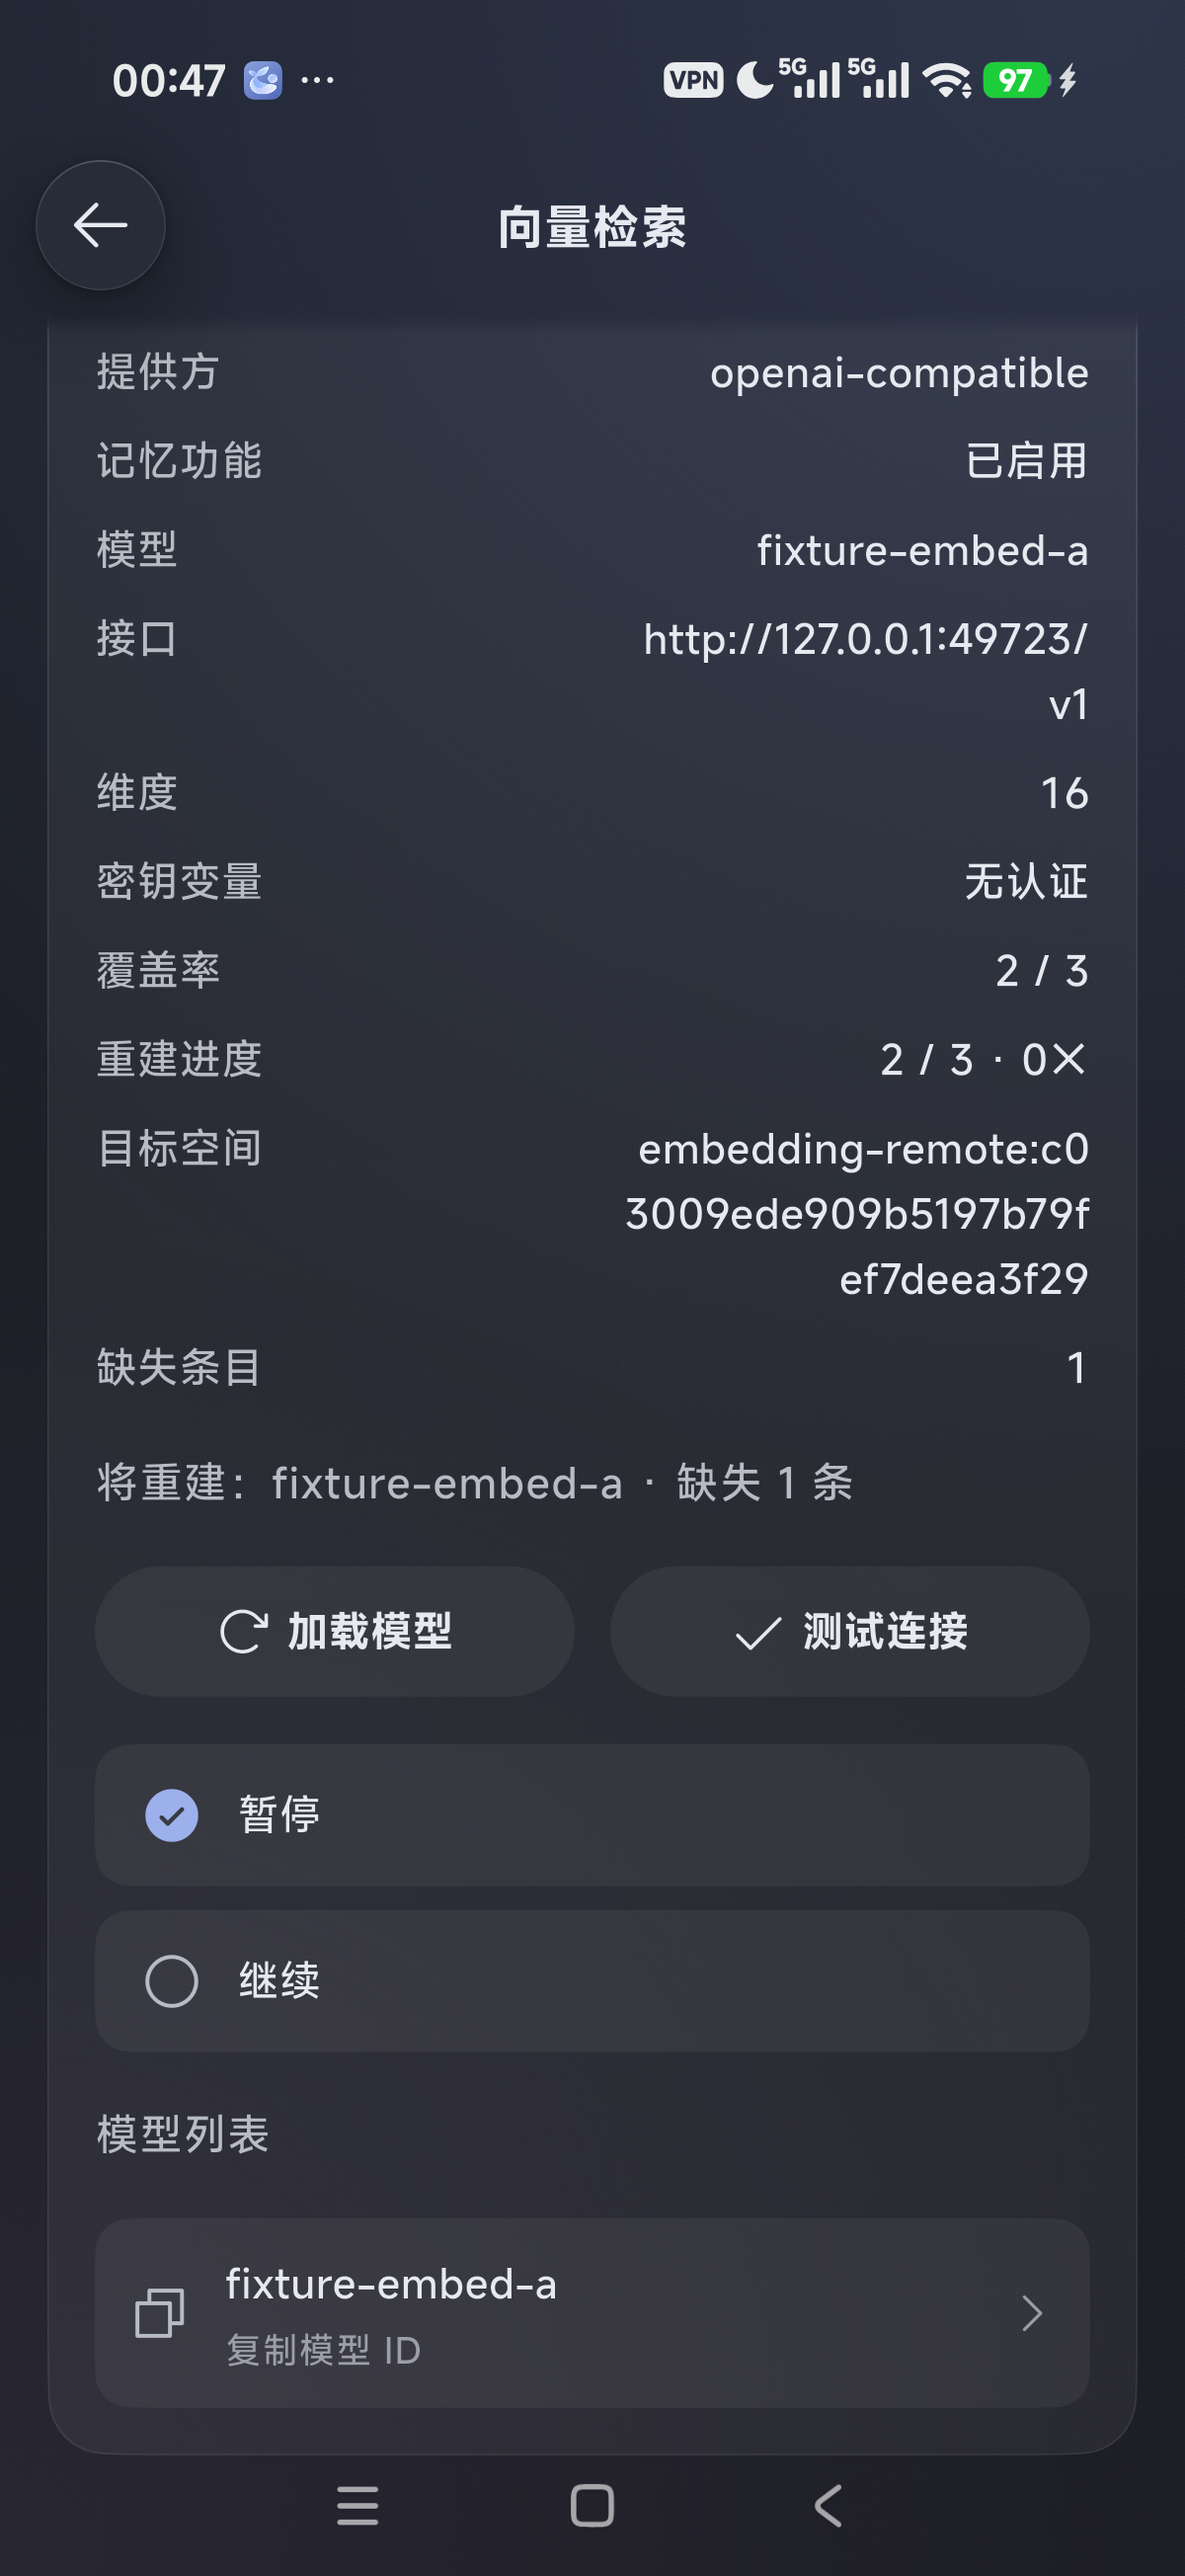
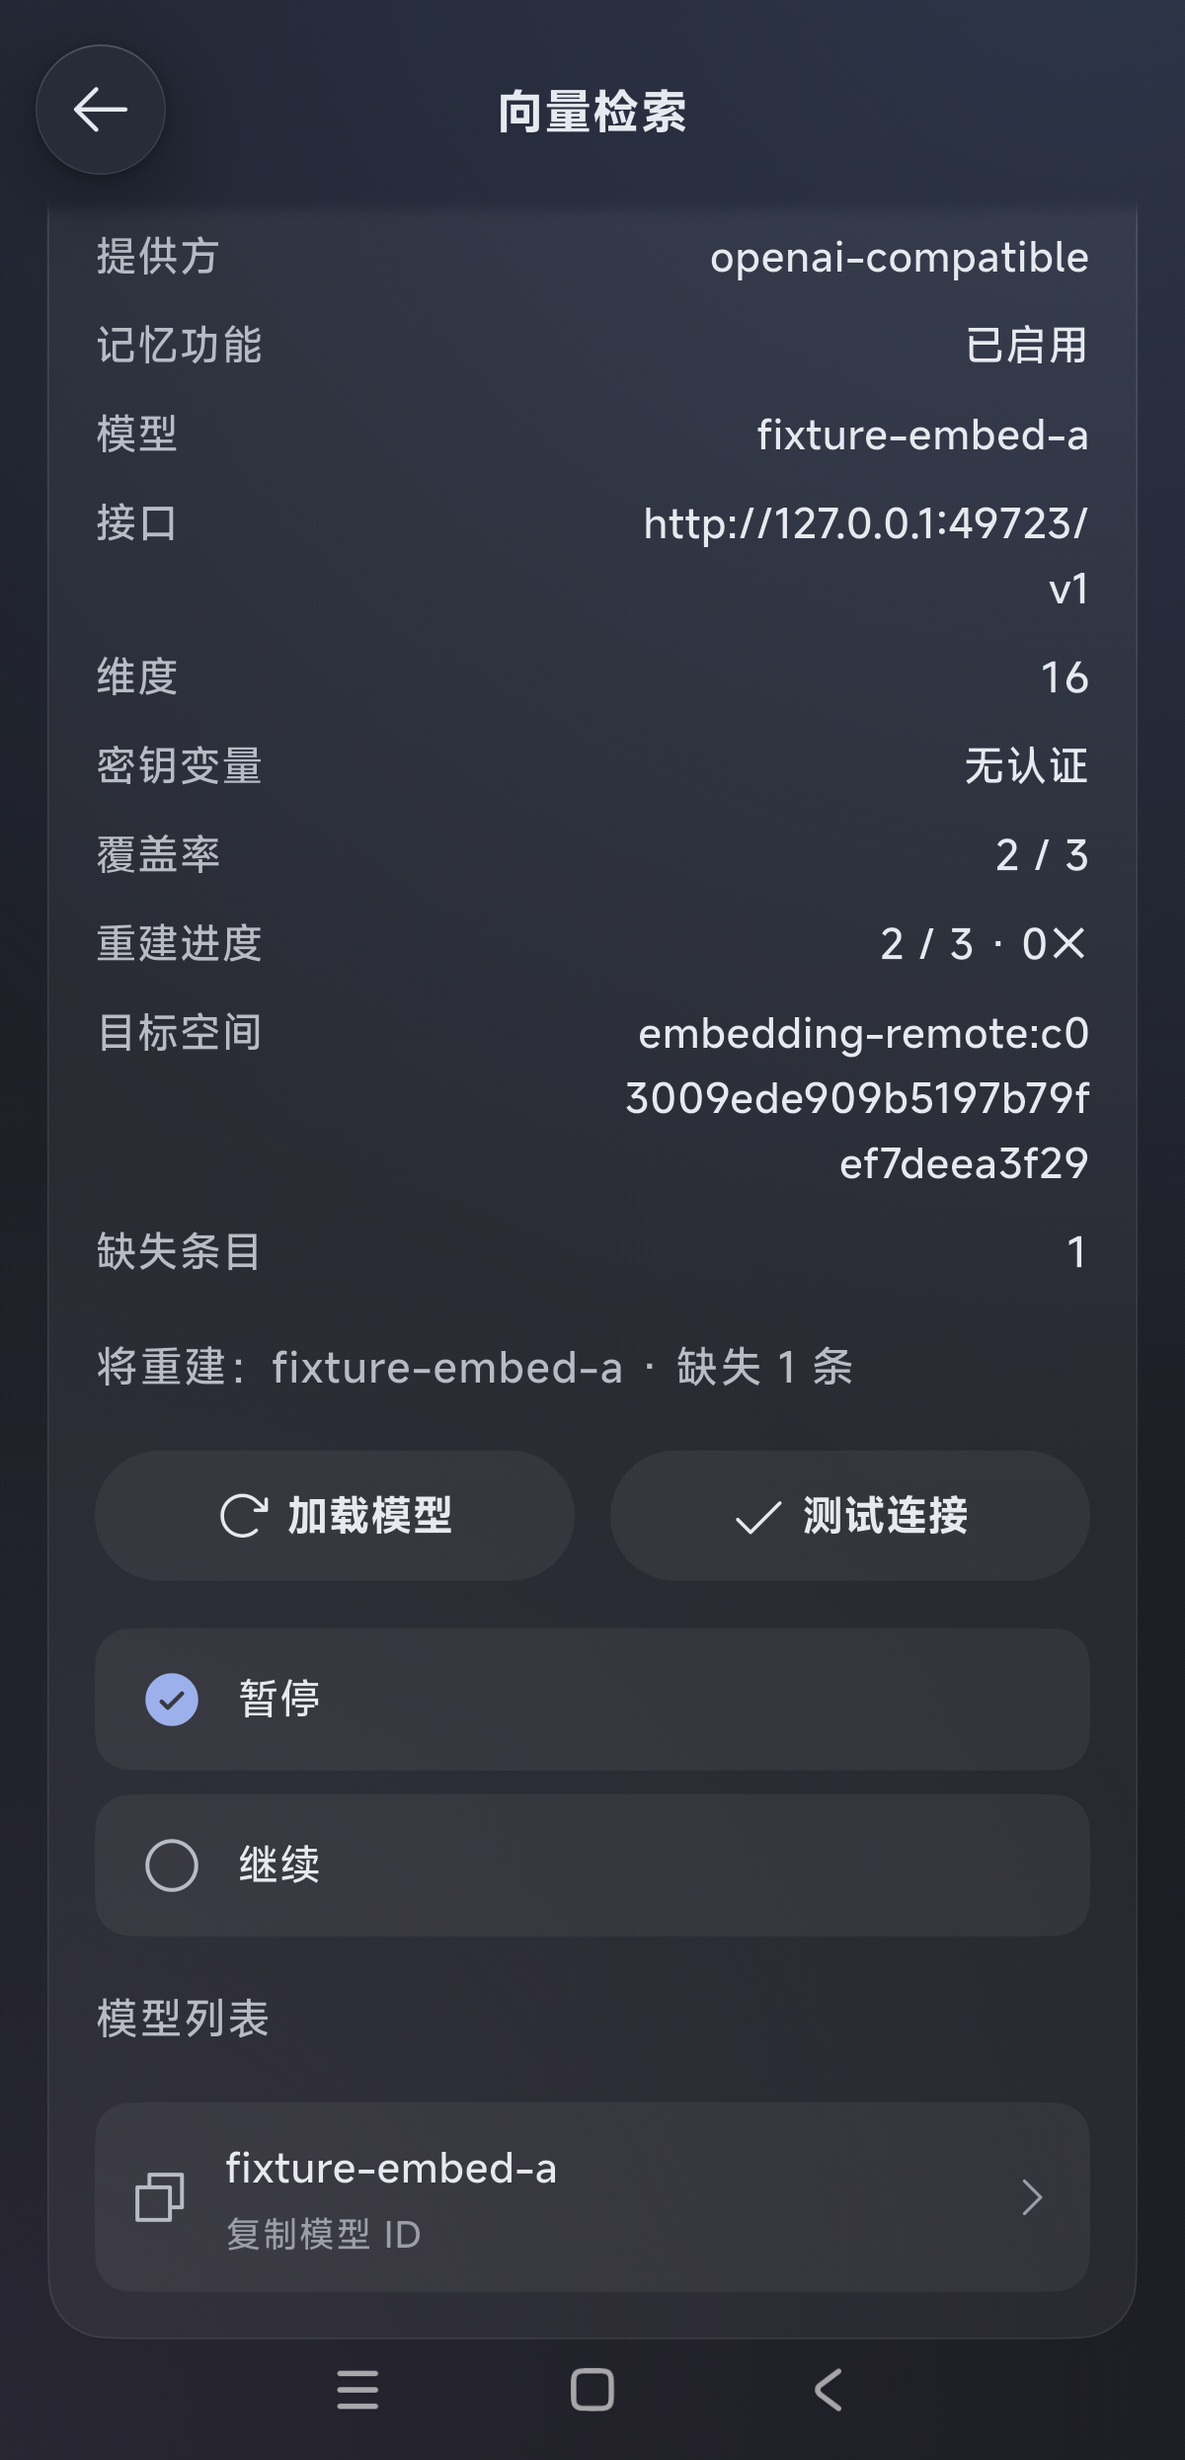
docs(t23): crop the Android status bar from evidence screenshots

diff --git a/_bmad-output/initiative-dsh-magic-context/acceptance-android-dsh-go-2026-11-17-t23/acceptance-report.md b/_bmad-output/initiative-dsh-magic-context/acceptance-android-dsh-go-2026-11-17-t23/acceptance-report.md
@@ -111,3 +111,6 @@
 - 新一轮桌面浏览器 gate、完整长会话/历史摘要压缩；本地相关回归不冒充这些运行通过。
 
 达到最小标准即停止；不为额外截图、报告措辞或哈希清单再做产品验收。
+
+> 2026-11-19 隐私处理：三张手机截图已裁掉顶部 117 px 状态栏（1200×2608 → 1200×2491），
+> 与 docs/img/dsh-go-*.zh.png 逐字节相同。裁图只影响顶栏，页面内容未改动。
